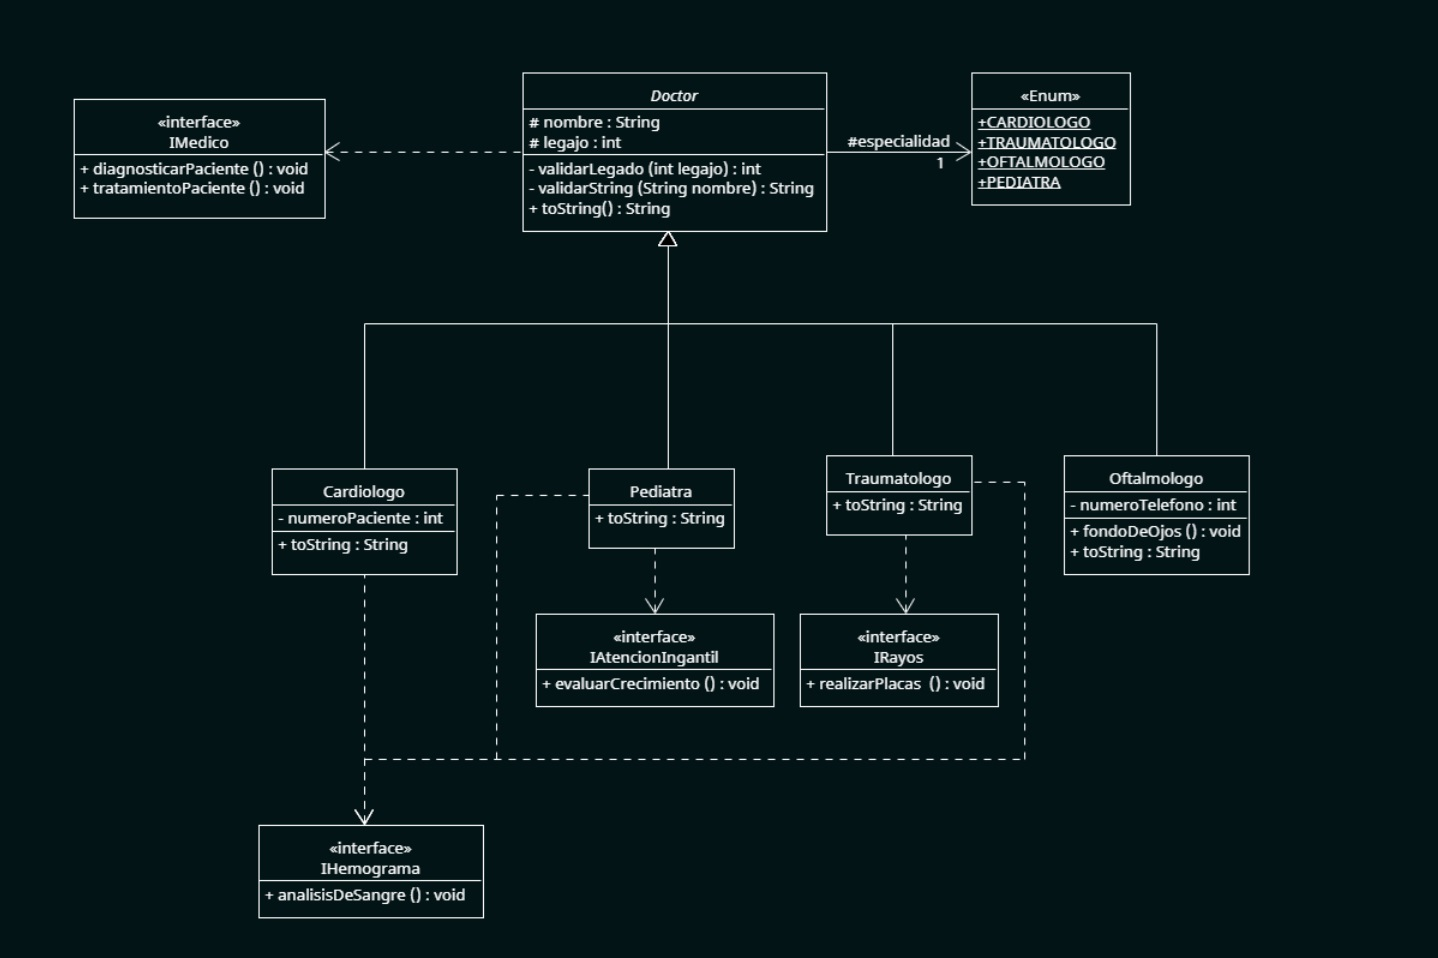
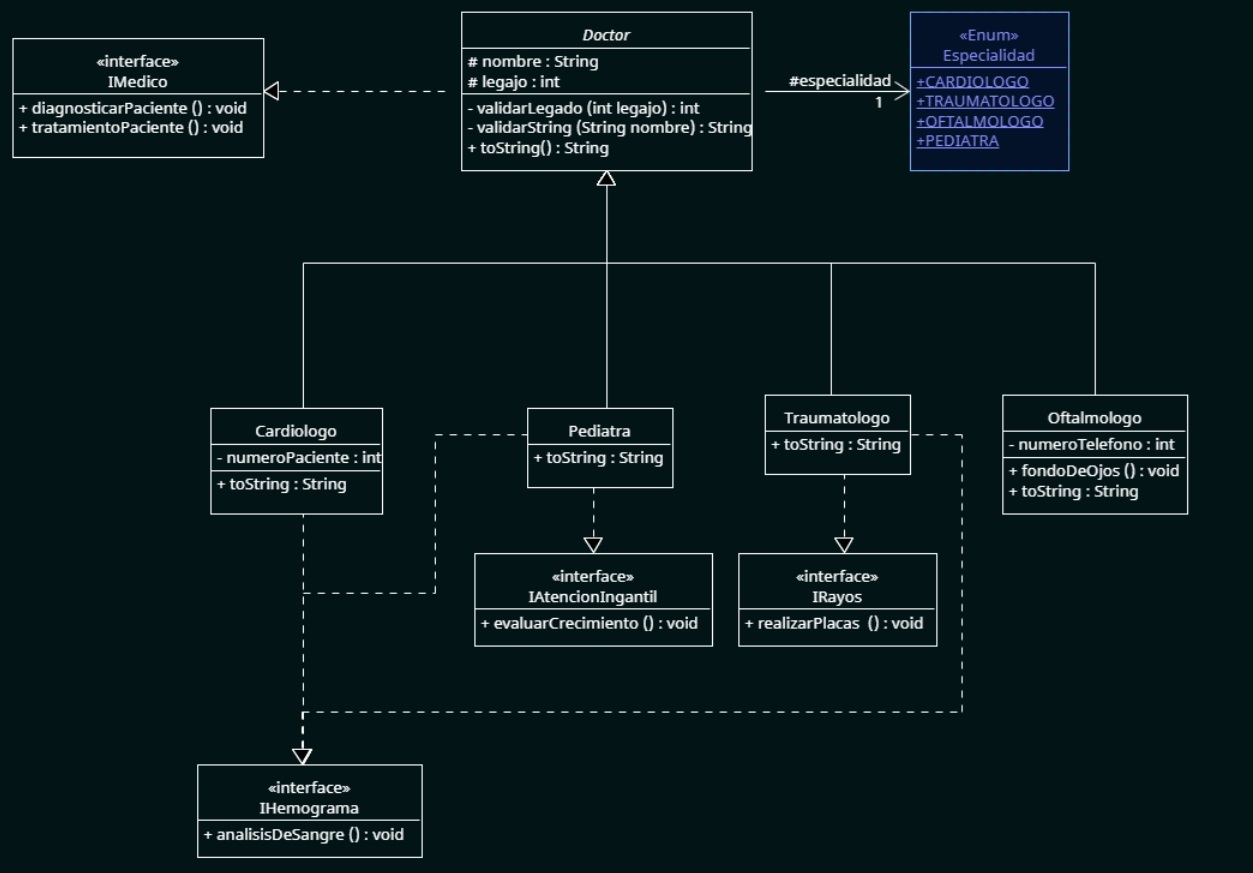
Final Adrian

diff --git a/src/model/Doctor.java b/src/model/Doctor.java
@@ -1,6 +1,6 @@
 package model;
 
-import constantes.Especialidades;
+import constantes.Especialidad;
 import interfaz.IMedico;
 
 import java.util.HashSet;
@@ -10,10 +10,10 @@ public abstract class Doctor implements IMedico {
 
     protected String nombre;
     protected int legajo;
-    protected Especialidades especialidad;
+    protected Especialidad especialidad;
     private static final Set<Integer> legajos = new HashSet<>();
 
-    public Doctor(String nombre, int legajo, Especialidades especialidad) {
+    public Doctor(String nombre, int legajo, Especialidad especialidad) {
         this.nombre = validarNombre(nombre);
         this.legajo = validarLegajo(legajo);
         this.especialidad = especialidad;

diff --git a/src/model/Traumatologo.java b/src/model/Traumatologo.java
@@ -1,6 +1,6 @@
 package model;
 
-import constantes.Especialidades;
+import constantes.Especialidad;
 import interfaz.IHemograma;
 import interfaz.IRayosX;
 
@@ -8,7 +8,7 @@ public class Traumatologo extends Doctor implements IHemograma, IRayosX {
     private int numeroDeCirugiasRealizadas;
 
     public Traumatologo(String nombre, int legajo, int numeroDeCirugiasRealizadas) {
-        super(nombre, legajo, Especialidades.TRAUMATOLOGO);
+        super(nombre, legajo, Especialidad.TRAUMATOLOGO);
         this.numeroDeCirugiasRealizadas = numeroDeCirugiasRealizadas;
     }
 

diff --git a/src/model/Cardiologo.java b/src/model/Cardiologo.java
@@ -1,13 +1,13 @@
 package model;
 
-import constantes.Especialidades;
+import constantes.Especialidad;
 import interfaz.IHemograma;
 
 public class Cardiologo extends Doctor implements IHemograma {
     private int numeroDePaciente;
 
     public Cardiologo(String nombre, int legajo, int numeroDePaciente) {
-        super(nombre, legajo, Especialidades.CARDIOLOGO);
+        super(nombre, legajo, Especialidad.CARDIOLOGO);
         this.numeroDePaciente = numeroDePaciente;
     }
 

diff --git a/src/model/Pediatra.java b/src/model/Pediatra.java
@@ -1,13 +1,13 @@
 package model;
 
-import constantes.Especialidades;
+import constantes.Especialidad;
 import interfaz.IAtencionInfantil;
 import interfaz.IHemograma;
 
 public class Pediatra extends Doctor implements IHemograma, IAtencionInfantil {
 
     public Pediatra(String nombre, int legajo) {
-        super(nombre, legajo, Especialidades.PEDIATRA);
+        super(nombre, legajo, Especialidad.PEDIATRA);
     }
 
     @Override

diff --git a/src/model/Oftalmologo.java b/src/model/Oftalmologo.java
@@ -1,12 +1,12 @@
 package model;
 
-import constantes.Especialidades;
+import constantes.Especialidad;
 
 public class Oftalmologo extends Doctor {
     private int numeroTelefono;
 
     public Oftalmologo(String nombre, int legajo, int numeroTelefono) {
-        super(nombre, legajo, Especialidades.OFTALMOLOGO);
+        super(nombre, legajo, Especialidad.OFTALMOLOGO);
         this.numeroTelefono = numeroTelefono;
     }
 

diff --git a/src/constantes/Especialidad.java b/src/constantes/Especialidad.java
@@ -1,6 +1,6 @@
 package constantes;
 
-public enum Especialidades {
+public enum Especialidad {
     CARDIOLOGO,
     TRAUMATOLOGO,
     OFTALMOLOGO,
